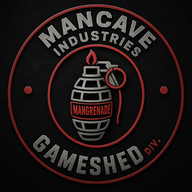
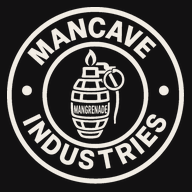
Replace Gameshed Div. badge with the Mancave Industries seal
Swap the header badge, app icons, favicon and share image for the flat
outlined seal with the Mangrenade at its centre. Bump the service worker
cache so installed apps pick up the new images.

Claude-Session: https://claude.ai/code/session_01WYiknoJjunHUtsTmbsqmSk

diff --git a/index.html b/index.html
@@ -20,7 +20,7 @@
 <link rel="preconnect" href="https://fonts.gstatic.com" crossorigin>
 <link rel="stylesheet" href="https://fonts.googleapis.com/css2?family=Black+Ops+One&family=Figtree:wght@400;500;700&family=IBM+Plex+Mono:wght@500&display=swap">
 <style>
-/* Layout: a dark steel pegboard in the shed. The Gameshed Div. badge is nailed up top, the flagship game hangs wide beneath it, the rest hang as tagged tools. Single dark look, matching the badge. */
+/* Layout: a dark steel pegboard in the shed. The Mancave Industries seal is nailed up top, the flagship game hangs wide beneath it, the rest hang as tagged tools. Single dark look. */
 :root{
   color-scheme:dark;
   --board:#121112;      /* blackened steel */
@@ -113,7 +113,7 @@ footer{display:flex;flex-wrap:wrap;justify-content:space-between;gap:8px;font:50
 
 <div class="wrap">
   <header>
-    <img class="badge" src="assets/gameshed-badge.webp" width="220" height="220" alt="Mancave Industries Gameshed Div. badge">
+    <img class="badge" src="assets/gameshed-badge.webp" width="220" height="220" alt="Mancave Industries seal with the Mangrenade at its centre">
     <div class="head-text">
       <div class="maker">Mancave Industries · Gameshed Div.</div>
       <h1>Game <span>Shed</span></h1>

diff --git a/sw.js b/sw.js
@@ -1,5 +1,5 @@
 // Game Shed service worker: network first, fall back to the cached hub when offline.
-const CACHE = 'gameshed-v1';
+const CACHE = 'gameshed-v2';
 const SHELL = ['./', 'index.html', 'manifest.webmanifest', 'assets/gameshed-badge.webp', 'assets/shed-art-v3.webp', 'assets/shed-art-v3-mobile.webp', 'assets/icon-192.png'];
 self.addEventListener('install', e => { e.waitUntil(caches.open(CACHE).then(c => c.addAll(SHELL))); self.skipWaiting(); });
 self.addEventListener('activate', e => { e.waitUntil(caches.keys().then(ks => Promise.all(ks.filter(k => k !== CACHE).map(k => caches.delete(k))))); self.clients.claim(); });
